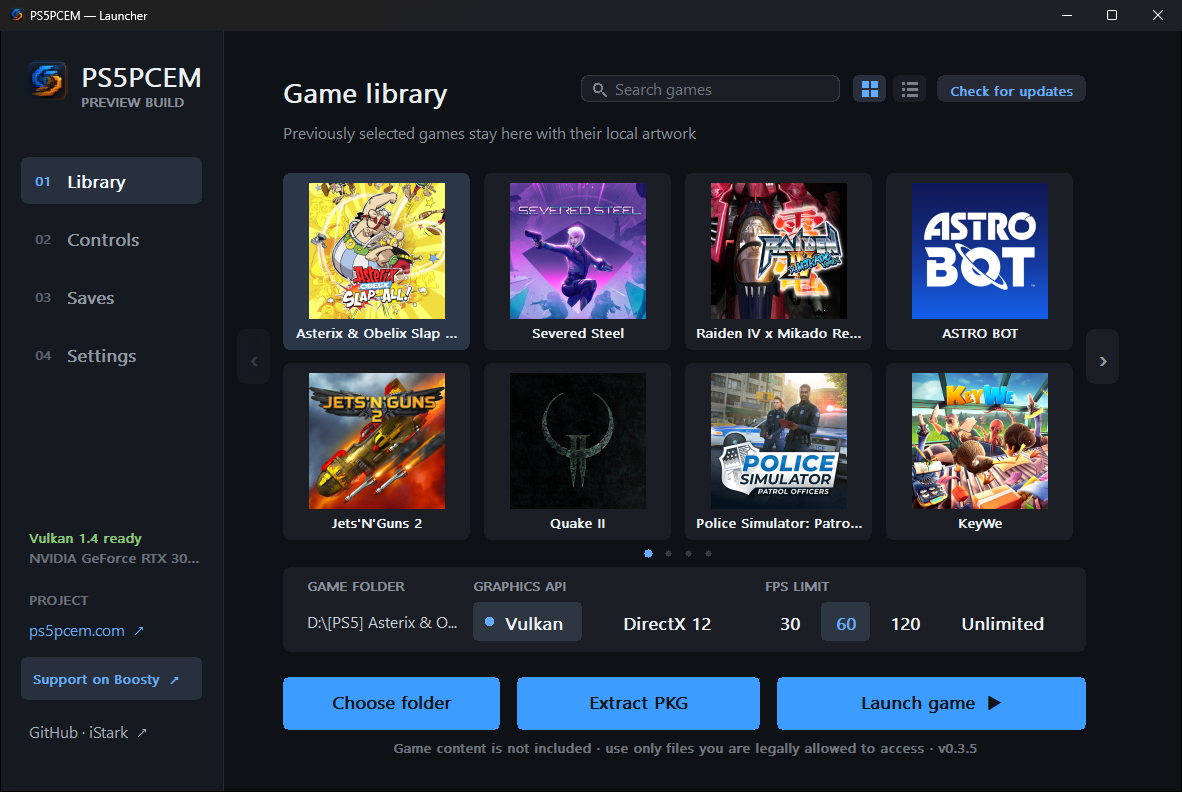
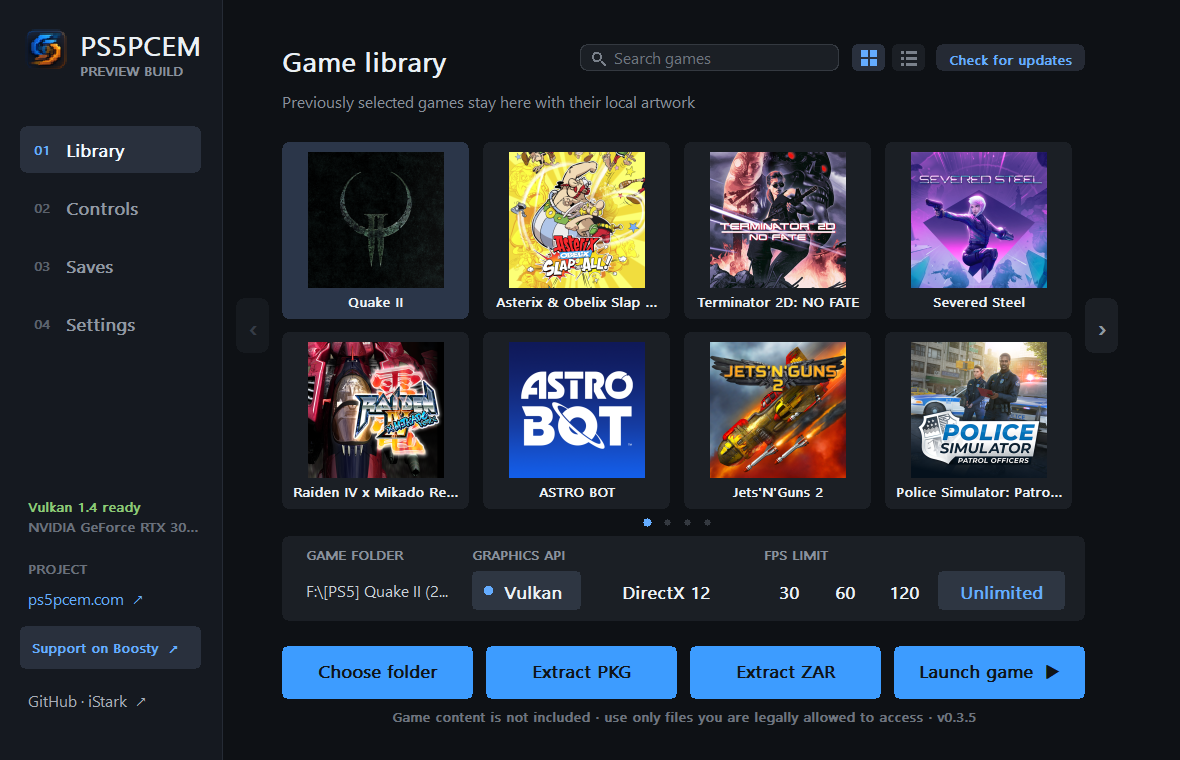
Refresh launcher screenshot and captions in all languages

diff --git a/src/i18n/dictionaries/hi.ts b/src/i18n/dictionaries/hi.ts
@@ -340,8 +340,8 @@ const hi: Dictionary = {
       title: "सेटिंग्स",
       body: "इंटरफ़ेस भाषा, आउटपुट रिज़ॉल्यूशन ({resolutions}; डिफ़ॉल्ट 1080p), गति या ग्राफ़िक्स रेंडरिंग प्रीसेट, ध्वनि आउटपुट, गेम विंडो के शीर्षक में FPS काउंटर, गेम में उपलब्ध हो तो उसका परफ़ॉर्मेंस मोड, और ग्राफ़िक्स API: Vulkan या प्रायोगिक DirectX 12। रिज़ॉल्यूशन, प्रीसेट और API अगली बार शुरू करने पर लागू होते हैं।",
     },
-    libraryCaption: "{version} के बाद के डेवलपमेंट बिल्ड में लाइब्रेरी: गेम फ़ोल्डर, Vulkan / DirectX 12 का चुनाव और FPS सीमा, यहाँ 60 पर।",
-    libraryAlt: "आठ गेम कवर, गेम फ़ोल्डर, Vulkan / DirectX 12 के चुनाव और 60 चुने हुए FPS सीमा बटन वाला लॉन्चर का लाइब्रेरी पेज",
+    libraryCaption: "{version} के बाद के डेवलपमेंट बिल्ड की अंग्रेज़ी लाइब्रेरी: Vulkan / DirectX 12, FPS सीमाएँ और PKG / ZAR निकालने के अलग बटन।",
+    libraryAlt: "आठ गेम कवर, Vulkan / DirectX 12, FPS सीमाओं और PKG तथा ZAR निकालने के अलग बटन वाली अंग्रेज़ी लॉन्चर लाइब्रेरी",
     controlsCaption: "जुड़े हुए DualSense और डिफ़ॉल्ट की बाइंडिंग के साथ हाइब्रिड मोड में कंट्रोल पेज।",
     controlsAlt: "गेमपैड, कीबोर्ड और हाइब्रिड कार्ड तथा की बाइंडिंग सूची वाला लॉन्चर का कंट्रोल पेज",
     startEyebrow: "गेम से पहले",

diff --git a/src/i18n/dictionaries/ru.ts b/src/i18n/dictionaries/ru.ts
@@ -373,8 +373,8 @@ const ru: Dictionary = {
       title: "Настройки",
       body: "Язык интерфейса, разрешение вывода ({resolutions}, по умолчанию 1080p), пресет рендеринга «Скорость» или «Графика», вывод звука, счётчик FPS в заголовке окна игры, режим производительности игры, если она его предлагает, и графический API: Vulkan или экспериментальный DirectX 12. Разрешение, пресет и API применяются при следующем запуске.",
     },
-    libraryCaption: "Библиотека в сборке для разработки после {version}: папка игры, выбор Vulkan / DirectX 12 и лимит FPS, здесь — 60.",
-    libraryAlt: "Страница библиотеки лаунчера с восемью обложками игр, папкой игры, выбором Vulkan / DirectX 12 и кнопками лимита FPS, выбрано 60",
+    libraryCaption: "Английская библиотека в сборке для разработки после {version}: Vulkan / DirectX 12, лимит FPS и отдельные кнопки распаковки PKG / ZAR.",
+    libraryAlt: "Библиотека лаунчера на английском с восемью обложками игр, выбором Vulkan / DirectX 12, лимитом FPS и отдельными кнопками распаковки PKG и ZAR",
     controlsCaption: "Управление в гибридном режиме с подключённым DualSense и назначениями клавиш по умолчанию.",
     controlsAlt: "Страница управления лаунчера с карточками геймпада, клавиатуры и гибридного режима и списком назначений",
     startEyebrow: "Перед игрой",

diff --git a/src/i18n/dictionaries/ar.ts b/src/i18n/dictionaries/ar.ts
@@ -372,8 +372,8 @@ const ar: Dictionary = {
       title: "الإعدادات",
       body: "لغة الواجهة، ودقة الإخراج ({resolutions}، و1080p افتراضيًا)، ونمط العرض «السرعة» أو «الرسوم»، وإخراج الصوت، وعداد الإطارات في عنوان نافذة اللعبة، ووضع أداء اللعبة عندما توفّره، وواجهة الرسوميات: Vulkan أو DirectX 12 التجريبي. تُطبَّق الدقة والنمط والواجهة عند التشغيل التالي.",
     },
-    libraryCaption: "المكتبة في إصدار التطوير التالي للإصدار {version}: مجلد اللعبة، واختيار Vulkan / DirectX 12، وحد الإطارات المضبوط هنا على 60.",
-    libraryAlt: "صفحة مكتبة المشغّل مع ثمانية أغلفة ألعاب ومجلد اللعبة واختيار Vulkan / DirectX 12 وأزرار حد الإطارات مع اختيار 60",
+    libraryCaption: "المكتبة بالإنجليزية في إصدار تطوير بعد {version}: Vulkan / DirectX 12، وحدود الإطارات، وزران منفصلان لاستخراج PKG / ZAR.",
+    libraryAlt: "مكتبة المشغّل بالإنجليزية مع ثمانية أغلفة ألعاب وVulkan / DirectX 12 وحدود الإطارات وزرين منفصلين لاستخراج PKG وZAR",
     controlsCaption: "صفحة التحكم في وضع الإدخال المختلط مع DualSense متصلة وتعيينات المفاتيح الافتراضية.",
     controlsAlt: "صفحة التحكم في المشغّل مع بطاقات يد التحكم ولوحة المفاتيح والإدخال المختلط وقائمة تعيينات المفاتيح",
     startEyebrow: "قبل اللعب",

diff --git a/src/i18n/dictionaries/ja.ts b/src/i18n/dictionaries/ja.ts
@@ -340,8 +340,8 @@ const ja: Dictionary = {
       title: "設定",
       body: "インターフェースの言語、出力解像度（{resolutions}、既定は 1080p）、描画プリセット「速度」または「画質」、サウンド出力、ゲームウィンドウのタイトルに表示する FPS カウンター、ゲームが対応している場合のパフォーマンスモード、そしてグラフィックス API（Vulkan または実験的な DirectX 12）。解像度、プリセット、API は次回の起動時に適用されます。",
     },
-    libraryCaption: "{version} の後の開発ビルドのライブラリ。ゲームフォルダー、Vulkan / DirectX 12 の選択、FPS 上限（ここでは 60）。",
-    libraryAlt: "8 つのゲームカバー、ゲームフォルダー、Vulkan / DirectX 12 の選択、60 を選んだ FPS 上限ボタンが並ぶランチャーのライブラリ画面",
+    libraryCaption: "{version} 以降の開発ビルドの英語ライブラリ。Vulkan / DirectX 12、FPS 上限、PKG / ZAR をそれぞれ展開するボタン。",
+    libraryAlt: "8 つのゲームカバー、Vulkan / DirectX 12、FPS 上限、PKG と ZAR の個別展開ボタンがある英語のランチャーライブラリ",
     controlsCaption: "DualSense を接続し、既定のキー割り当てを使ったハイブリッドモードの操作設定。",
     controlsAlt: "ゲームパッド、キーボード、ハイブリッドのカードとキー割り当ての一覧が並ぶランチャーの操作設定画面",
     startEyebrow: "ゲームの前に",

diff --git a/src/i18n/dictionaries/fr.ts b/src/i18n/dictionaries/fr.ts
@@ -373,8 +373,8 @@ const fr: Dictionary = {
       title: "Paramètres",
       body: "Langue de l'interface, résolution de sortie ({resolutions}, 1080p par défaut), préréglage de rendu Vitesse ou Graphismes, sortie audio, compteur d'images par seconde dans le titre de la fenêtre du jeu, mode performance du jeu lorsqu'il en propose un, et API graphique : Vulkan ou DirectX 12 expérimental. La résolution, le préréglage et l'API s'appliquent au lancement suivant.",
     },
-    libraryCaption: "La bibliothèque de la version de développement postérieure à la {version} : le dossier du jeu, le choix entre Vulkan et DirectX 12 et la limite FPS, ici à 60.",
-    libraryAlt: "Page bibliothèque du lanceur avec huit jaquettes de jeux, le dossier du jeu, le choix entre Vulkan et DirectX 12 et les boutons de limite FPS, 60 sélectionné",
+    libraryCaption: "La bibliothèque en anglais dans une version de développement après {version} : Vulkan / DirectX 12, limites FPS et boutons distincts pour extraire les PKG / ZAR.",
+    libraryAlt: "Bibliothèque du lanceur en anglais avec huit jaquettes, Vulkan / DirectX 12, limites FPS et boutons distincts pour extraire les PKG et ZAR",
     controlsCaption: "Commandes en mode hybride avec une DualSense connectée et les associations de touches par défaut.",
     controlsAlt: "Page des commandes du lanceur avec les cartes manette, clavier et hybride et la liste des touches",
     startEyebrow: "Avant le jeu",

diff --git a/src/i18n/dictionaries/es.ts b/src/i18n/dictionaries/es.ts
@@ -373,8 +373,8 @@ const es: Dictionary = {
       title: "Ajustes",
       body: "Idioma de la interfaz, resolución de salida ({resolutions}, 1080p por defecto), el ajuste de render Velocidad o Gráficos, la salida de sonido, un contador de FPS en el título de la ventana del juego, el modo rendimiento del juego cuando lo ofrece y la API gráfica: Vulkan o el DirectX 12 experimental. La resolución, el ajuste y la API se aplican en el siguiente inicio.",
     },
-    libraryCaption: "La biblioteca en la versión de desarrollo posterior a la {version}: la carpeta del juego, la elección entre Vulkan y DirectX 12 y el límite de FPS, aquí en 60.",
-    libraryAlt: "Página de biblioteca del lanzador con ocho portadas de juegos, la carpeta del juego, la elección entre Vulkan y DirectX 12 y los botones del límite de FPS con 60 seleccionado",
+    libraryCaption: "La biblioteca en inglés de una versión de desarrollo posterior a {version}: Vulkan / DirectX 12, límites de FPS y botones separados para extraer PKG / ZAR.",
+    libraryAlt: "Biblioteca del lanzador en inglés con ocho portadas, Vulkan / DirectX 12, límites de FPS y botones separados para extraer PKG y ZAR",
     controlsCaption: "Controles en modo híbrido con un DualSense conectado y las asignaciones de teclas predeterminadas.",
     controlsAlt: "Página de controles del lanzador con tarjetas de mando, teclado e híbrido y la lista de asignaciones",
     startEyebrow: "Antes de jugar",

diff --git a/src/i18n/dictionaries/pt.ts b/src/i18n/dictionaries/pt.ts
@@ -373,8 +373,8 @@ const pt: Dictionary = {
       title: "Configurações",
       body: "Idioma da interface, resolução de saída ({resolutions}, 1080p por padrão), a predefinição de renderização Velocidade ou Gráficos, saída de som, um contador de FPS no título da janela do jogo, o modo desempenho do jogo, quando ele oferece um, e a API gráfica: Vulkan ou o DirectX 12 experimental. Resolução, predefinição e API valem a partir da próxima execução.",
     },
-    libraryCaption: "A biblioteca na versão de desenvolvimento posterior à {version}: a pasta do jogo, a escolha entre Vulkan e DirectX 12 e o limite de FPS, aqui em 60.",
-    libraryAlt: "Página da biblioteca do inicializador com oito capas de jogos, a pasta do jogo, a escolha entre Vulkan e DirectX 12 e os botões de limite de FPS com 60 selecionado",
+    libraryCaption: "A biblioteca em inglês numa versão de desenvolvimento após {version}: Vulkan / DirectX 12, limites de FPS e botões separados para extrair PKG / ZAR.",
+    libraryAlt: "Biblioteca do inicializador em inglês com oito capas, Vulkan / DirectX 12, limites de FPS e botões separados para extrair PKG e ZAR",
     controlsCaption: "Controles no modo híbrido com um DualSense conectado e as associações de teclas padrão.",
     controlsAlt: "Página de controles do inicializador com cartões de controle, teclado e híbrido e a lista de teclas",
     startEyebrow: "Antes do jogo",

diff --git a/src/i18n/dictionaries/de.ts b/src/i18n/dictionaries/de.ts
@@ -373,8 +373,8 @@ const de: Dictionary = {
       title: "Einstellungen",
       body: "Oberflächensprache, Ausgabeauflösung ({resolutions}, standardmäßig 1080p), das Rendering-Preset Tempo oder Grafik, Tonausgabe, ein FPS-Zähler im Titel des Spielfensters, der Leistungsmodus des Spiels, sofern es einen anbietet, und die Grafik-API: Vulkan oder das experimentelle DirectX 12. Auflösung, Preset und API gelten ab dem nächsten Start.",
     },
-    libraryCaption: "Die Bibliothek im Entwicklungsbuild nach {version}: Spielordner, die Wahl zwischen Vulkan und DirectX 12 und das FPS-Limit, hier auf 60.",
-    libraryAlt: "Bibliotheksseite des Launchers mit acht Spielcovern, dem Spielordner, der Wahl zwischen Vulkan und DirectX 12 und den FPS-Limit-Schaltflächen, 60 ausgewählt",
+    libraryCaption: "Die englische Bibliothek im Entwicklungsbuild nach {version}: Vulkan / DirectX 12, FPS-Limits und separate Schaltflächen zum Entpacken von PKG / ZAR.",
+    libraryAlt: "Englische Launcher-Bibliothek mit acht Spielcovern, Vulkan / DirectX 12, FPS-Limits und separaten Schaltflächen zum Entpacken von PKG und ZAR",
     controlsCaption: "Steuerung im Hybridmodus mit verbundenem DualSense und der Standard-Tastenbelegung.",
     controlsAlt: "Steuerungsseite des Launchers mit Karten für Gamepad, Tastatur und Hybrid sowie der Tastenbelegung",
     startEyebrow: "Vor dem Spiel",

diff --git a/src/i18n/dictionaries/tr.ts b/src/i18n/dictionaries/tr.ts
@@ -340,8 +340,8 @@ const tr: Dictionary = {
       title: "Ayarlar",
       body: "Arayüz dili, çıkış çözünürlüğü ({resolutions}; varsayılan 1080p), Hız veya Grafik işleme ön ayarı, ses çıkışı, oyun penceresi başlığında FPS sayacı, oyun sunuyorsa performans modu ve grafik API'si: Vulkan ya da deneysel DirectX 12. Çözünürlük, ön ayar ve API bir sonraki başlatmada uygulanır.",
     },
-    libraryCaption: "{version} sonrasındaki geliştirme sürümünde kütüphane: oyun klasörü, Vulkan / DirectX 12 seçimi ve burada 60'a ayarlı FPS sınırı.",
-    libraryAlt: "Sekiz oyun kapağı, oyun klasörü, Vulkan / DirectX 12 seçimi ve 60 seçili FPS sınırı düğmelerinin bulunduğu başlatıcı kütüphane sayfası",
+    libraryCaption: "{version} sonrasındaki geliştirme sürümünün İngilizce kütüphanesi: Vulkan / DirectX 12, FPS sınırları ve ayrı PKG / ZAR çıkarma düğmeleri.",
+    libraryAlt: "Sekiz oyun kapağı, Vulkan / DirectX 12, FPS sınırları ve ayrı PKG ve ZAR çıkarma düğmeleriyle İngilizce başlatıcı kütüphanesi",
     controlsCaption: "Bağlı bir DualSense ve varsayılan tuş atamalarıyla karma moddaki kontroller sayfası.",
     controlsAlt: "Kumanda, klavye ve karma kartları ile tuş atama listesinin bulunduğu başlatıcı kontroller sayfası",
     startEyebrow: "Oyundan önce",

diff --git a/src/i18n/dictionaries/ko.ts b/src/i18n/dictionaries/ko.ts
@@ -340,8 +340,8 @@ const ko: Dictionary = {
       title: "설정",
       body: "인터페이스 언어, 출력 해상도({resolutions}, 기본값 1080p), “속도” 또는 “그래픽” 렌더링 프리셋, 사운드 출력, 게임 창 제목의 FPS 카운터, 게임이 제공하는 경우 성능 모드, 그리고 그래픽 API(Vulkan 또는 실험적인 DirectX 12). 해상도, 프리셋, API는 다음 실행부터 적용됩니다.",
     },
-    libraryCaption: "{version} 이후 개발 빌드의 라이브러리. 게임 폴더, Vulkan / DirectX 12 선택, FPS 제한(여기서는 60).",
-    libraryAlt: "게임 표지 8개, 게임 폴더, Vulkan / DirectX 12 선택, 60이 선택된 FPS 제한 버튼이 있는 런처 라이브러리 화면",
+    libraryCaption: "{version} 이후 개발 빌드의 영어 라이브러리. Vulkan / DirectX 12, FPS 제한, 별도의 PKG / ZAR 추출 버튼.",
+    libraryAlt: "게임 표지 8개, Vulkan / DirectX 12, FPS 제한, 별도의 PKG 및 ZAR 추출 버튼이 있는 영어 런처 라이브러리",
     controlsCaption: "DualSense를 연결하고 기본 키 할당을 사용한 하이브리드 모드의 조작 화면.",
     controlsAlt: "게임패드, 키보드, 하이브리드 카드와 키 할당 목록이 있는 런처 조작 화면",
     startEyebrow: "게임 전에",

diff --git a/src/i18n/dictionaries/zh.ts b/src/i18n/dictionaries/zh.ts
@@ -369,8 +369,8 @@ const zh: Dictionary = {
       title: "设置",
       body: "界面语言、输出分辨率（{resolutions}，默认 1080p）、“速度”或“画质”渲染预设、声音输出、游戏窗口标题中的帧率显示、游戏提供时的性能模式，以及图形 API：Vulkan 或实验性的 DirectX 12。分辨率、预设和 API 在下次启动时生效。",
     },
-    libraryCaption: "{version} 之后开发版本中的游戏库：游戏文件夹、Vulkan / DirectX 12 选择和帧率上限，此处设为 60。",
-    libraryAlt: "启动器游戏库页面，包含八个游戏封面、游戏文件夹、Vulkan / DirectX 12 选择以及选中 60 的帧率上限按钮",
+    libraryCaption: "{version} 之后开发版本中的英文游戏库：Vulkan / DirectX 12、帧率上限以及独立的 PKG / ZAR 解包按钮。",
+    libraryAlt: "英文启动器游戏库，包含八个游戏封面、Vulkan / DirectX 12、帧率上限以及独立的 PKG 和 ZAR 解包按钮",
     controlsCaption: "混合输入模式下的控制设置，已连接 DualSense，使用默认按键映射。",
     controlsAlt: "启动器控制设置页面，包含手柄、键盘和混合输入卡片以及按键映射列表",
     startEyebrow: "进入游戏之前",

diff --git a/src/data/launcher.ts b/src/data/launcher.ts
@@ -11,13 +11,13 @@ export const commitUrl = (sha: string) =>
   `https://github.com/iStark/PS5PCEM/commit/${sha}`;
 
 /**
- * The newest development commit these pages describe: the FPS limit. The
+ * The newest development commit these pages describe: PKG/ZAR extraction. The
  * Graphics API card came in fafd205 and the four newest languages in 83948d3.
  */
 export const launcherDevelopmentCommit = {
-  sha: "6654cf5",
-  date: "2026-10-21",
-  url: commitUrl("6654cf5"),
+  sha: "7f34d04",
+  date: "2026-10-29",
+  url: commitUrl("7f34d04"),
 } as const;
 
 export type LauncherLanguage = {
@@ -104,7 +104,7 @@ export const launcherFacts = {
 export const launcherImages = {
   settings: { src: "/images/launcher-settings-en.png", width: 1180, height: 760 },
   controls: { src: "/images/launcher-controls-en.png", width: 1180, height: 760 },
-  library: { src: "/images/launcher-library.png", width: 1182, height: 792 },
+  library: { src: "/images/launcher-library.png", width: 1180, height: 760 },
   languages: { src: "/images/launcher-settings-ja.png", width: 1180, height: 760 },
   /** The Graphics API card cropped from Settings, with DirectX 12 selected. */
   graphicsApi: { src: "/images/launcher-graphics-api-en.png", width: 838, height: 104 },
